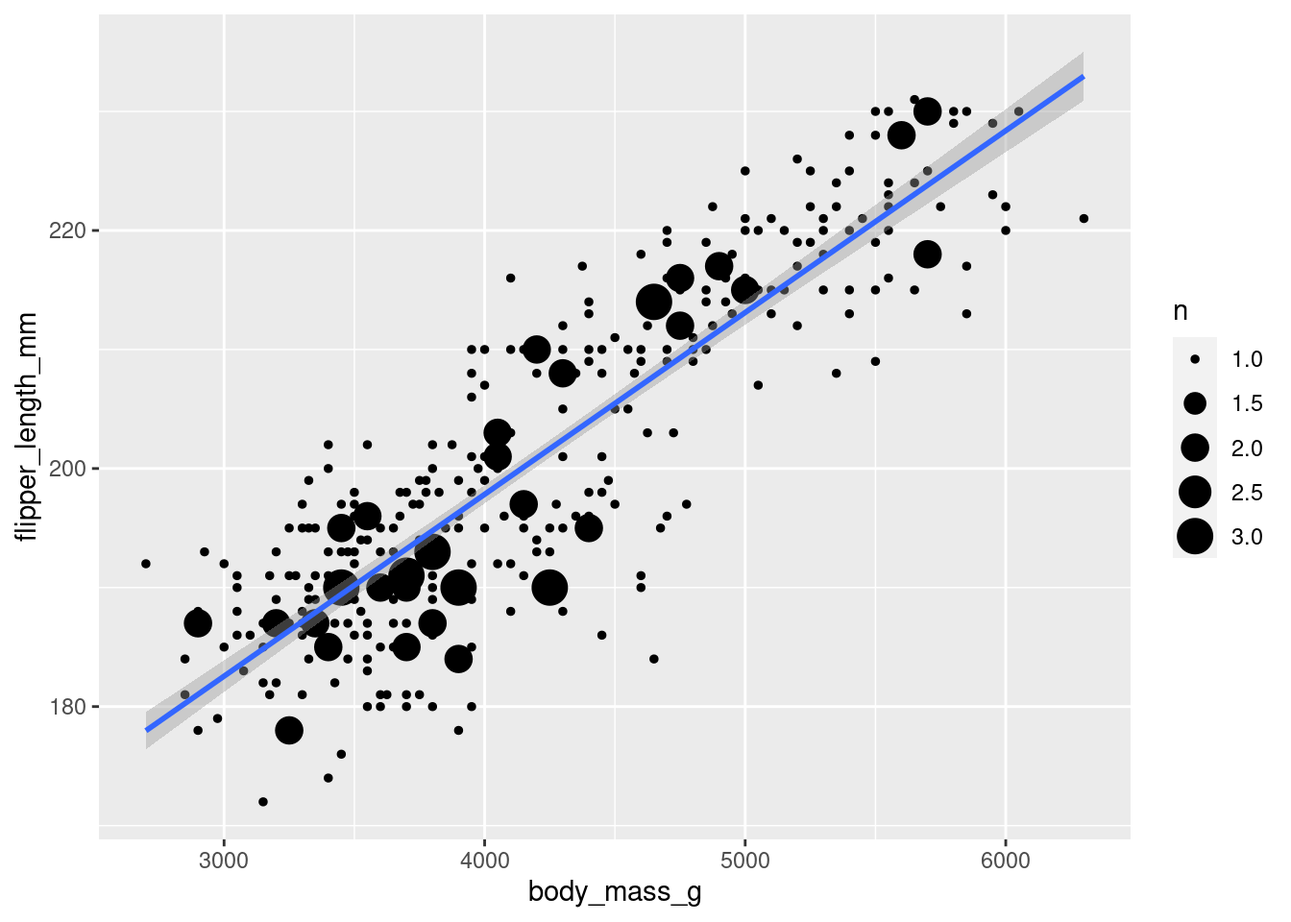
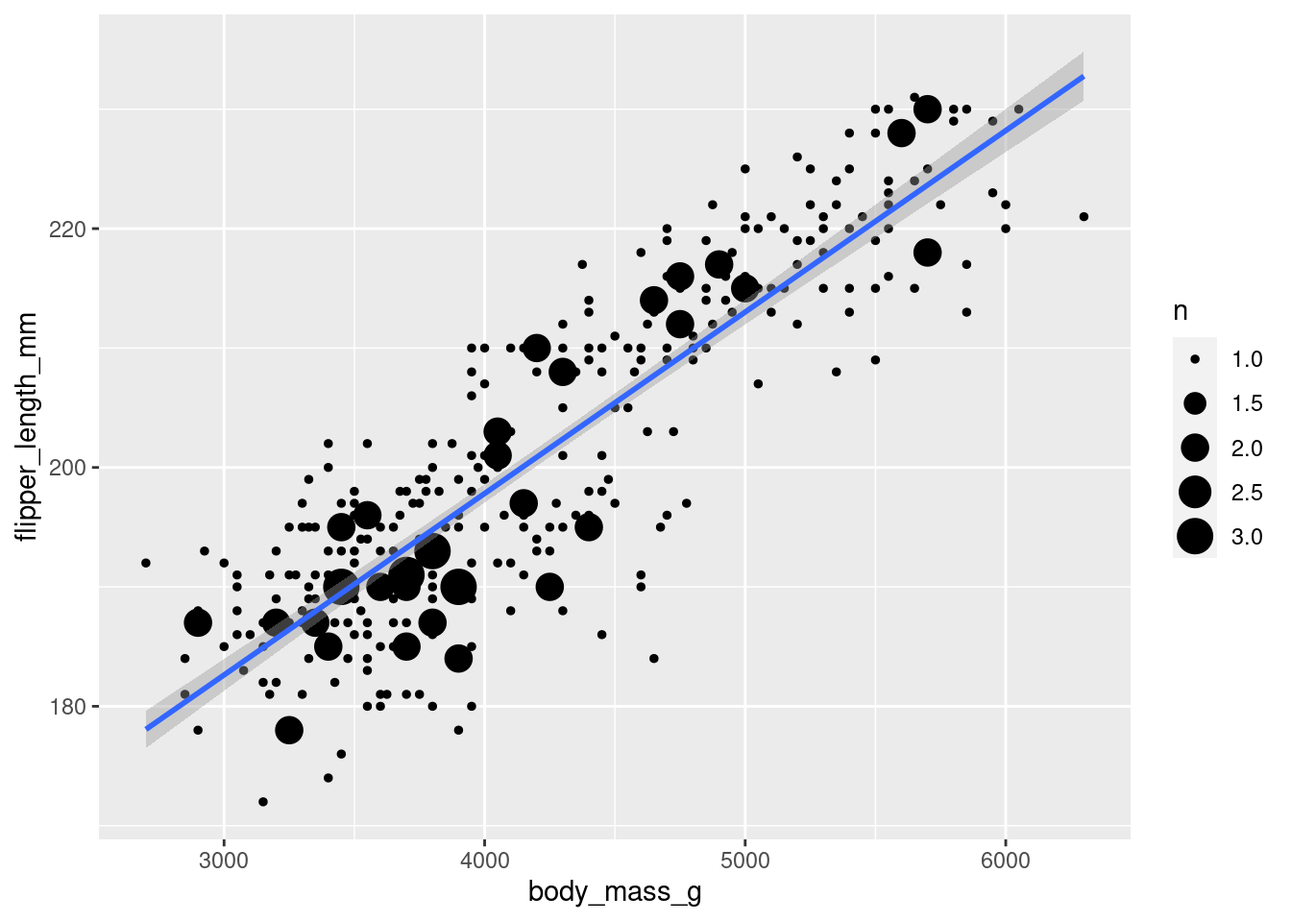
updated methods

diff --git a/docs/index.html b/docs/index.html
@@ -2,7 +2,7 @@
 <html xmlns="http://www.w3.org/1999/xhtml" lang="en" xml:lang="en"><head>
 
 <meta charset="utf-8">
-<meta name="generator" content="quarto-1.2.475">
+<meta name="generator" content="quarto-1.2.269">
 
 <meta name="viewport" content="width=device-width, initial-scale=1.0, user-scalable=yes">
 
@@ -207,42 +207,153 @@ div.csl-indent {
 <p>Missing data is a critical issue that can lead to global crises and cybersecurity threats. Researchers have struggled with univariate imputation and deletion, but modern methods are being tested to find the best missing data handling solutions. Multivariate chained equation imputation is a method that prevents missing data during data collection. Bayesian posterior distribution simulation has been improved by researchers. Missing data in data analysis reduces model accuracy, and unknown data detection methods like MCAR and MAR are necessary. Single imputation and deletion are the simplest assumptions, while maximum likelihood and multiple imputation are optimal for missing data. Reliable statistical results require identifying missingness processes to ensure accurate data analysis.</p>
 <p>Missing completely at random (MCAR) is best described as data missing entirely at random and unrelated to observed or unobserved factors. Missing at random (MAR) describes a missing variable due to other observed variables within the data set. Missing depending on unobserved predictors (MNAR) describes the missing variable due to unobserved factors within our data set. Missingness that depends on the missing value describes missing data due to the information the participant does not want to make available.</p>
 <p>When data is missing in a dataset, it can be handled in two ways. First would be to simply delete the missing data from the dataset. This is generally the best method if the data is missing at random and makes up for a small amount of the larger dataset. If the data is not missing at random, or if deleting it would remove a substantial amount of the data, there is a statistical technique to handle missing data known as “imputation.” The most common type of imputation is single and multiple. “In single imputation, imputed values are considered as actual values. Single imputation ignores the fact that the actual value cannot be predicted for sure by any imputation method. Single imputation based methods do not consider the uncertainty of the imputed values. Instead, they recognize the imputed values as actual values in subsequent analysis.” <span class="citation" data-cites="khan2020">(<a href="#ref-khan2020" role="doc-biblioref">Khan and Hoque 2020</a>)</span> Single imputation replaces missing values by using multiple methods, such as replacing the missing value by copying the previous participants’ value, copying over the worst value in the data set, or calculating the mean for the variable. With a single imputation, there is no distinction between observed and imputed values, which could lead to bias, influenced by outliers, can spread errors, no way to detect the imputed values, and this methodology cannot be used for complex data. Despite these drawbacks, simple imputation is one of the most popular types of imputation due to its simplicity and status as the default imputation method in many statistical packages. <span class="citation" data-cites="ATM8839">(<a href="#ref-ATM8839" role="doc-biblioref">Zhang 2016</a>)</span></p>
-<p>“Multivariate Imputation by Chained Equation (MICE) predicts missing data using the existing data of other variables. Then it replaces missing values using the predicted values and creates a dataset called imputed dataset. By iteration, it creates multiple imputed datasets. Each dataset is then analyzed using standard statistical analysis techniques, and multiple analysis results are provided.” <span class="citation" data-cites="khan2020">(<a href="#ref-khan2020" role="doc-biblioref">Khan and Hoque 2020</a>)</span> The downside of this methodology is that it can be complex to implement, assumes that the data is missing at random, has a risk of overfitting, and requires many resources; however, it has the ability to impute more accurate data than single imputation based on underlying patterns in the data</p>
-<p>The code block below demonstrate the penguins dataset that we will be using and shows the correlation using ggplot2<span class="citation" data-cites="ggplot2">(<a href="#ref-ggplot2" role="doc-biblioref">Wickham 2016</a>)</span> between body_mass_g and flipper_legth_mm that we will be using to construct a model before and after imputation of missing data.</p>
+<p>“Multivariate Imputation by Chained Equation (MICE) predicts missing data using the existing data of other variables. Then it replaces missing values using the predicted values and creates a dataset called imputed dataset. By iteration, it creates multiple imputed datasets. Each dataset is then analyzed using standard statistical analysis techniques, and multiple analysis results are provided.” <span class="citation" data-cites="khan2020">(<a href="#ref-khan2020" role="doc-biblioref">Khan and Hoque 2020</a>)</span> The downside of this methodology is that it can be complex to implement, assumes that the data is missing at random, has a risk of overfitting, and requires many resources; however, it has the ability to impute more accurate data than single imputation based on underlying patterns in the data.</p>
+<p>To demonstrate the benefits of imputation, we will create missingness in a predictor variable and create a model by excluding the missing data. Then we will perform imputation on the dataset and recreate the model to see if there is a difference in performance. Before we perform imputations on the penguins <span class="citation" data-cites="palmerpenguins">(<a href="#ref-palmerpenguins" role="doc-biblioref">Horst, Hill, and Gorman 2020</a>)</span> dataset, first the data must be cleaned to omit all incomplete records so we can have the actual values to compare our imputations against. The code block below demonstrates the penguins dataset that we will be using, cleaning the incomplete records, and displays the correlation using the ggplot2 [<span class="citation" data-cites="ggplot2">Wickham (<a href="#ref-ggplot2" role="doc-biblioref">2016</a>)</span>] package between body_mass_g and flipper_legth_mm that we will be using to construct a model before and after imputation of missing data.</p>
 <div class="cell">
 <div class="sourceCode cell-code" id="cb1"><pre class="sourceCode r code-with-copy"><code class="sourceCode r"><span id="cb1-1"><a href="#cb1-1" aria-hidden="true" tabindex="-1"></a><span class="fu">library</span>(readr)</span>
 <span id="cb1-2"><a href="#cb1-2" aria-hidden="true" tabindex="-1"></a><span class="fu">library</span>(missMethods)</span>
 <span id="cb1-3"><a href="#cb1-3" aria-hidden="true" tabindex="-1"></a><span class="fu">library</span>(simputation)</span>
 <span id="cb1-4"><a href="#cb1-4" aria-hidden="true" tabindex="-1"></a><span class="fu">library</span>(ggplot2)</span>
-<span id="cb1-5"><a href="#cb1-5" aria-hidden="true" tabindex="-1"></a><span class="fu">set.seed</span>(<span class="dv">1</span>) </span>
-<span id="cb1-6"><a href="#cb1-6" aria-hidden="true" tabindex="-1"></a></span>
-<span id="cb1-7"><a href="#cb1-7" aria-hidden="true" tabindex="-1"></a>penguins <span class="ot">&lt;-</span> readr<span class="sc">::</span><span class="fu">read_csv</span>(<span class="st">'penguins.csv'</span>)</span>
-<span id="cb1-8"><a href="#cb1-8" aria-hidden="true" tabindex="-1"></a></span>
-<span id="cb1-9"><a href="#cb1-9" aria-hidden="true" tabindex="-1"></a><span class="fu">ggplot</span>(penguins, <span class="fu">aes</span>(body_mass_g, flipper_length_mm)) <span class="sc">+</span> </span>
-<span id="cb1-10"><a href="#cb1-10" aria-hidden="true" tabindex="-1"></a>  <span class="fu">geom_count</span>() <span class="sc">+</span> </span>
-<span id="cb1-11"><a href="#cb1-11" aria-hidden="true" tabindex="-1"></a>  <span class="fu">geom_smooth</span>(<span class="at">method=</span><span class="st">'lm'</span>)</span></code><button title="Copy to Clipboard" class="code-copy-button"><i class="bi"></i></button></pre></div>
+<span id="cb1-5"><a href="#cb1-5" aria-hidden="true" tabindex="-1"></a></span>
+<span id="cb1-6"><a href="#cb1-6" aria-hidden="true" tabindex="-1"></a><span class="fu">set.seed</span>(<span class="dv">1</span>) </span>
+<span id="cb1-7"><a href="#cb1-7" aria-hidden="true" tabindex="-1"></a></span>
+<span id="cb1-8"><a href="#cb1-8" aria-hidden="true" tabindex="-1"></a>penguins <span class="ot">&lt;-</span> readr<span class="sc">::</span><span class="fu">read_csv</span>(<span class="st">'penguins.csv'</span>)</span>
+<span id="cb1-9"><a href="#cb1-9" aria-hidden="true" tabindex="-1"></a></span>
+<span id="cb1-10"><a href="#cb1-10" aria-hidden="true" tabindex="-1"></a></span>
+<span id="cb1-11"><a href="#cb1-11" aria-hidden="true" tabindex="-1"></a>penguin_rows_with_na <span class="ot">&lt;-</span> penguins[<span class="sc">!</span><span class="fu">complete.cases</span>(penguins), ]</span>
+<span id="cb1-12"><a href="#cb1-12" aria-hidden="true" tabindex="-1"></a><span class="fu">print</span>(penguin_rows_with_na)</span></code><button title="Copy to Clipboard" class="code-copy-button"><i class="bi"></i></button></pre></div>
+<div class="cell-output cell-output-stdout">
+<pre><code># A tibble: 11 × 8
+   species island    bill_length_mm bill_depth_mm flipper_length_mm body_mass_g
+   &lt;chr&gt;   &lt;chr&gt;              &lt;dbl&gt;         &lt;dbl&gt;             &lt;dbl&gt;       &lt;dbl&gt;
+ 1 Adelie  Torgersen           NA            NA                  NA          NA
+ 2 Adelie  Torgersen           34.1          18.1               193        3475
+ 3 Adelie  Torgersen           42            20.2               190        4250
+ 4 Adelie  Torgersen           37.8          17.1               186        3300
+ 5 Adelie  Torgersen           37.8          17.3               180        3700
+ 6 Adelie  Dream               37.5          18.9               179        2975
+ 7 Gentoo  Biscoe              44.5          14.3               216        4100
+ 8 Gentoo  Biscoe              46.2          14.4               214        4650
+ 9 Gentoo  Biscoe              47.3          13.8               216        4725
+10 Gentoo  Biscoe              44.5          15.7               217        4875
+11 Gentoo  Biscoe              NA            NA                  NA          NA
+# ℹ 2 more variables: sex &lt;chr&gt;, year &lt;dbl&gt;</code></pre>
+</div>
+<div class="sourceCode cell-code" id="cb3"><pre class="sourceCode r code-with-copy"><code class="sourceCode r"><span id="cb3-1"><a href="#cb3-1" aria-hidden="true" tabindex="-1"></a>penguins_filtered <span class="ot">&lt;-</span> <span class="fu">na.omit</span>(penguins)</span>
+<span id="cb3-2"><a href="#cb3-2" aria-hidden="true" tabindex="-1"></a></span>
+<span id="cb3-3"><a href="#cb3-3" aria-hidden="true" tabindex="-1"></a></span>
+<span id="cb3-4"><a href="#cb3-4" aria-hidden="true" tabindex="-1"></a><span class="fu">ggplot</span>(penguins_filtered, <span class="fu">aes</span>(body_mass_g, flipper_length_mm)) <span class="sc">+</span> </span>
+<span id="cb3-5"><a href="#cb3-5" aria-hidden="true" tabindex="-1"></a>  <span class="fu">geom_count</span>() <span class="sc">+</span> </span>
+<span id="cb3-6"><a href="#cb3-6" aria-hidden="true" tabindex="-1"></a>  <span class="fu">geom_smooth</span>(<span class="at">method=</span><span class="st">'lm'</span>)</span></code><button title="Copy to Clipboard" class="code-copy-button"><i class="bi"></i></button></pre></div>
 <div class="cell-output-display">
 <p><img src="index_files/figure-html/unnamed-chunk-1-1.png" class="img-fluid" width="672"></p>
 </div>
 </div>
 <p>In the code block below, we will create 50% missing at random data in the column flipper_length_mm using the missMethods <span class="citation" data-cites="missMethods">(<a href="#ref-missMethods" role="doc-biblioref">Rockel 2022</a>)</span> package. Then we will create a linear regression to display the r-squared that would be achieved without performing any imputation on the data set.</p>
 <div class="cell">
-<div class="sourceCode cell-code" id="cb2"><pre class="sourceCode r code-with-copy"><code class="sourceCode r"><span id="cb2-1"><a href="#cb2-1" aria-hidden="true" tabindex="-1"></a>penguins_missing <span class="ot">&lt;-</span> <span class="fu">delete_MCAR</span>(penguins,<span class="fl">0.5</span>,<span class="st">"flipper_length_mm"</span>)</span>
-<span id="cb2-2"><a href="#cb2-2" aria-hidden="true" tabindex="-1"></a></span>
-<span id="cb2-3"><a href="#cb2-3" aria-hidden="true" tabindex="-1"></a>regg <span class="ot">=</span> <span class="fu">lm</span>(body_mass_g<span class="sc">~</span> flipper_length_mm, <span class="at">data =</span> penguins_missing, <span class="at">na.action=</span>na.omit) </span>
-<span id="cb2-4"><a href="#cb2-4" aria-hidden="true" tabindex="-1"></a><span class="fu">print</span>(<span class="fu">paste</span>(<span class="fu">summary</span>(regg)<span class="sc">$</span>adj.r.squared, <span class="st">"is the R-Squared for the linear model where missing values are excluded from the dataset."</span>))</span></code><button title="Copy to Clipboard" class="code-copy-button"><i class="bi"></i></button></pre></div>
+<div class="sourceCode cell-code" id="cb4"><pre class="sourceCode r code-with-copy"><code class="sourceCode r"><span id="cb4-1"><a href="#cb4-1" aria-hidden="true" tabindex="-1"></a>penguins_missing <span class="ot">&lt;-</span> <span class="fu">delete_MCAR</span>(penguins,<span class="fl">0.5</span>,<span class="st">"flipper_length_mm"</span>)</span>
+<span id="cb4-2"><a href="#cb4-2" aria-hidden="true" tabindex="-1"></a></span>
+<span id="cb4-3"><a href="#cb4-3" aria-hidden="true" tabindex="-1"></a>regg <span class="ot">=</span> <span class="fu">lm</span>(body_mass_g<span class="sc">~</span> flipper_length_mm, <span class="at">data =</span> penguins_missing, <span class="at">na.action=</span>na.omit) </span>
+<span id="cb4-4"><a href="#cb4-4" aria-hidden="true" tabindex="-1"></a><span class="fu">print</span>(<span class="fu">paste</span>(<span class="fu">summary</span>(regg)<span class="sc">$</span>adj.r.squared, <span class="st">"is the R-Squared for the linear model where missing values are excluded from the dataset."</span>))</span></code><button title="Copy to Clipboard" class="code-copy-button"><i class="bi"></i></button></pre></div>
 <div class="cell-output cell-output-stdout">
 <pre><code>[1] "0.756874976743334 is the R-Squared for the linear model where missing values are excluded from the dataset."</code></pre>
 </div>
 </div>
-<p>Now we will proceed to impute linear model predicted values using the simputation <span class="citation" data-cites="simputation">(<a href="#ref-simputation" role="doc-biblioref">Loo 2022</a>)</span> package into the missing data set for bill_length_mm and construct the same model to achieve an increase in r-squared.</p>
+<p>Although this R-Squared is good, it omits half of the data since 50% of the values for flipper_length_mm are missing. In the following code blocks, we will explore imputation of the the missing data.</p>
 <div class="cell">
-<div class="sourceCode cell-code" id="cb4"><pre class="sourceCode r code-with-copy"><code class="sourceCode r"><span id="cb4-1"><a href="#cb4-1" aria-hidden="true" tabindex="-1"></a>penguins_imputed <span class="ot">&lt;-</span> <span class="fu">impute_lm</span>(penguins_missing, flipper_length_mm <span class="sc">~</span> species <span class="sc">+</span> bill_length_mm <span class="sc">+</span> bill_depth_mm)</span>
-<span id="cb4-2"><a href="#cb4-2" aria-hidden="true" tabindex="-1"></a></span>
-<span id="cb4-3"><a href="#cb4-3" aria-hidden="true" tabindex="-1"></a>regg <span class="ot">=</span> <span class="fu">lm</span>(body_mass_g<span class="sc">~</span> flipper_length_mm, <span class="at">data =</span> penguins_imputed)</span>
-<span id="cb4-4"><a href="#cb4-4" aria-hidden="true" tabindex="-1"></a><span class="fu">print</span>(<span class="fu">paste</span>(<span class="fu">summary</span>(regg)<span class="sc">$</span>adj.r.squared, <span class="st">"is the R-Squared for the linear model where imputation of missing values was performed before modeling."</span>))</span></code><button title="Copy to Clipboard" class="code-copy-button"><i class="bi"></i></button></pre></div>
+<div class="sourceCode cell-code" id="cb6"><pre class="sourceCode r code-with-copy"><code class="sourceCode r"><span id="cb6-1"><a href="#cb6-1" aria-hidden="true" tabindex="-1"></a><span class="co"># Make a copy of the dataset and calculate the mean of the specific column</span></span>
+<span id="cb6-2"><a href="#cb6-2" aria-hidden="true" tabindex="-1"></a>penguins_Mean_imputated <span class="ot">&lt;-</span> penguins_missing</span>
+<span id="cb6-3"><a href="#cb6-3" aria-hidden="true" tabindex="-1"></a></span>
+<span id="cb6-4"><a href="#cb6-4" aria-hidden="true" tabindex="-1"></a></span>
+<span id="cb6-5"><a href="#cb6-5" aria-hidden="true" tabindex="-1"></a><span class="co"># If we only replaced the missing values for flipper_length_mm</span></span>
+<span id="cb6-6"><a href="#cb6-6" aria-hidden="true" tabindex="-1"></a>flipper_length_mm_mean_value <span class="ot">&lt;-</span> <span class="fu">mean</span>(penguins<span class="sc">$</span>flipper_length_mm, <span class="at">na.rm =</span> <span class="cn">TRUE</span>)</span>
+<span id="cb6-7"><a href="#cb6-7" aria-hidden="true" tabindex="-1"></a>penguins_Mean_imputated<span class="sc">$</span>flipper_length_mm[<span class="fu">is.na</span>(penguins_Mean_imputated<span class="sc">$</span>flipper_length_mm)] <span class="ot">&lt;-</span> flipper_length_mm_mean_value</span>
+<span id="cb6-8"><a href="#cb6-8" aria-hidden="true" tabindex="-1"></a>penguins_Mean_imputated[<span class="sc">!</span><span class="fu">complete.cases</span>(penguins), ]</span></code><button title="Copy to Clipboard" class="code-copy-button"><i class="bi"></i></button></pre></div>
 <div class="cell-output cell-output-stdout">
-<pre><code>[1] "0.773206900379413 is the R-Squared for the linear model where imputation of missing values was performed before modeling."</code></pre>
+<pre><code># A tibble: 11 × 8
+   species island    bill_length_mm bill_depth_mm flipper_length_mm body_mass_g
+   &lt;chr&gt;   &lt;chr&gt;              &lt;dbl&gt;         &lt;dbl&gt;             &lt;dbl&gt;       &lt;dbl&gt;
+ 1 Adelie  Torgersen           NA            NA                201.          NA
+ 2 Adelie  Torgersen           34.1          18.1              201.        3475
+ 3 Adelie  Torgersen           42            20.2              190         4250
+ 4 Adelie  Torgersen           37.8          17.1              186         3300
+ 5 Adelie  Torgersen           37.8          17.3              180         3700
+ 6 Adelie  Dream               37.5          18.9              201.        2975
+ 7 Gentoo  Biscoe              44.5          14.3              216         4100
+ 8 Gentoo  Biscoe              46.2          14.4              201.        4650
+ 9 Gentoo  Biscoe              47.3          13.8              201.        4725
+10 Gentoo  Biscoe              44.5          15.7              201.        4875
+11 Gentoo  Biscoe              NA            NA                201.          NA
+# ℹ 2 more variables: sex &lt;chr&gt;, year &lt;dbl&gt;</code></pre>
+</div>
+<div class="sourceCode cell-code" id="cb8"><pre class="sourceCode r code-with-copy"><code class="sourceCode r"><span id="cb8-1"><a href="#cb8-1" aria-hidden="true" tabindex="-1"></a>regg <span class="ot">=</span> <span class="fu">lm</span>(body_mass_g<span class="sc">~</span> flipper_length_mm, <span class="at">data =</span> penguins_Mean_imputated, <span class="at">na.action=</span>na.omit)</span>
+<span id="cb8-2"><a href="#cb8-2" aria-hidden="true" tabindex="-1"></a><span class="fu">print</span>(<span class="fu">paste</span>(<span class="fu">summary</span>(regg)<span class="sc">$</span>adj.r.squared, <span class="st">"is the R-Squared for the linear model where missing values are imputed as the mean."</span>))</span></code><button title="Copy to Clipboard" class="code-copy-button"><i class="bi"></i></button></pre></div>
+<div class="cell-output cell-output-stdout">
+<pre><code>[1] "0.401550181674138 is the R-Squared for the linear model where missing values are imputed as the mean."</code></pre>
+</div>
+</div>
+<p>As we can see the R-Squared dramatically decreased since we performed a basic version of imputation that just inserts one number for all missing values. Now we will proceed to impute linear model predicted values using the simputation <span class="citation" data-cites="simputation">(<a href="#ref-simputation" role="doc-biblioref">Loo 2022</a>)</span> package into the missing data set for bill_length_mm and construct the same model to achieve an increase in r-squared.</p>
+<div class="cell">
+<div class="sourceCode cell-code" id="cb10"><pre class="sourceCode r code-with-copy"><code class="sourceCode r"><span id="cb10-1"><a href="#cb10-1" aria-hidden="true" tabindex="-1"></a>penguins_imputed <span class="ot">&lt;-</span> <span class="fu">impute_lm</span>(penguins_missing, flipper_length_mm <span class="sc">~</span> species <span class="sc">+</span> bill_length_mm <span class="sc">+</span> bill_depth_mm)</span>
+<span id="cb10-2"><a href="#cb10-2" aria-hidden="true" tabindex="-1"></a></span>
+<span id="cb10-3"><a href="#cb10-3" aria-hidden="true" tabindex="-1"></a>regg <span class="ot">=</span> <span class="fu">lm</span>(body_mass_g<span class="sc">~</span> flipper_length_mm, <span class="at">data =</span> penguins_imputed)</span>
+<span id="cb10-4"><a href="#cb10-4" aria-hidden="true" tabindex="-1"></a><span class="fu">print</span>(<span class="fu">paste</span>(<span class="fu">summary</span>(regg)<span class="sc">$</span>adj.r.squared, <span class="st">"is the R-Squared for the linear model where imputation of missing values was performed with another linear model before modeling."</span>))</span></code><button title="Copy to Clipboard" class="code-copy-button"><i class="bi"></i></button></pre></div>
+<div class="cell-output cell-output-stdout">
+<pre><code>[1] "0.773206900379413 is the R-Squared for the linear model where imputation of missing values was performed with another linear model before modeling."</code></pre>
+</div>
+</div>
+<p>As shown in the R-Squared output for each model. We can see a small improvement in the accuracy of this model by performing imputation. This accuracy was possible since there wasnt an issue with missing values in species, bill_length_mm, and bill_depth_mm which were used to impute flipper_length_mm. But what happens if these variables contained large amounts of missing values that must be replaced as well?</p>
+<div class="cell">
+<div class="sourceCode cell-code" id="cb12"><pre class="sourceCode r code-with-copy"><code class="sourceCode r"><span id="cb12-1"><a href="#cb12-1" aria-hidden="true" tabindex="-1"></a>penguins_missing <span class="ot">&lt;-</span> <span class="fu">delete_MCAR</span>(penguins,<span class="fl">0.5</span>,<span class="fu">c</span>(<span class="st">"flipper_length_mm"</span>,<span class="st">"bill_length_mm"</span>,<span class="st">"bill_depth_mm"</span>,<span class="st">"body_mass_g"</span>,<span class="st">"species"</span>,<span class="st">"sex"</span>))</span>
+<span id="cb12-2"><a href="#cb12-2" aria-hidden="true" tabindex="-1"></a><span class="fu">tryCatch</span>(</span>
+<span id="cb12-3"><a href="#cb12-3" aria-hidden="true" tabindex="-1"></a>  {</span>
+<span id="cb12-4"><a href="#cb12-4" aria-hidden="true" tabindex="-1"></a>  penguins_imputed_missing <span class="ot">&lt;-</span> <span class="fu">impute_lm</span>(penguins_missing, flipper_length_mm <span class="sc">~</span> species <span class="sc">+</span> bill_length_mm <span class="sc">+</span> bill_depth_mm)</span>
+<span id="cb12-5"><a href="#cb12-5" aria-hidden="true" tabindex="-1"></a></span>
+<span id="cb12-6"><a href="#cb12-6" aria-hidden="true" tabindex="-1"></a>  penguins_imputed_missing[<span class="sc">!</span><span class="fu">complete.cases</span>(penguins_imputed_missing), ]</span>
+<span id="cb12-7"><a href="#cb12-7" aria-hidden="true" tabindex="-1"></a></span>
+<span id="cb12-8"><a href="#cb12-8" aria-hidden="true" tabindex="-1"></a>  regg <span class="ot">=</span> <span class="fu">lm</span>(body_mass_g<span class="sc">~</span> flipper_length_mm, <span class="at">data =</span> penguins_imputed_missing)</span>
+<span id="cb12-9"><a href="#cb12-9" aria-hidden="true" tabindex="-1"></a>  <span class="fu">print</span>(<span class="fu">paste</span>(<span class="fu">summary</span>(regg)<span class="sc">$</span>adj.r.squared, <span class="st">"is the R-Squared for the linear model where imputation of missing values was performed with another linear model before modeling."</span>))</span>
+<span id="cb12-10"><a href="#cb12-10" aria-hidden="true" tabindex="-1"></a>  },</span>
+<span id="cb12-11"><a href="#cb12-11" aria-hidden="true" tabindex="-1"></a>  <span class="at">error =</span> <span class="cf">function</span>(e) </span>
+<span id="cb12-12"><a href="#cb12-12" aria-hidden="true" tabindex="-1"></a>  {</span>
+<span id="cb12-13"><a href="#cb12-13" aria-hidden="true" tabindex="-1"></a>    <span class="fu">print</span>(<span class="st">"This caused an error!"</span>) <span class="co"># or whatever error handling code you want</span></span>
+<span id="cb12-14"><a href="#cb12-14" aria-hidden="true" tabindex="-1"></a>  }</span>
+<span id="cb12-15"><a href="#cb12-15" aria-hidden="true" tabindex="-1"></a>)</span></code><button title="Copy to Clipboard" class="code-copy-button"><i class="bi"></i></button></pre></div>
+<div class="cell-output cell-output-stdout">
+<pre><code>[1] "This caused an error!"</code></pre>
+</div>
+</div>
+<p>It is important to note, that although it appears that we are imputing missing values in the code, the linear model fails to impute when there are missing values in the predicting variables. To avoid this error, below we will impute most of the missing data with mean or mode and attempt to impute flipper_length_mm with a linear model. This method will not be accurate due to the same underlying issue that we saw with imputing mean before.</p>
+<div class="cell">
+<div class="sourceCode cell-code" id="cb14"><pre class="sourceCode r code-with-copy"><code class="sourceCode r"><span id="cb14-1"><a href="#cb14-1" aria-hidden="true" tabindex="-1"></a>penguins_missing <span class="ot">&lt;-</span> <span class="fu">delete_MCAR</span>(penguins,<span class="fl">0.5</span>,<span class="fu">c</span>(<span class="st">"flipper_length_mm"</span>,<span class="st">"bill_length_mm"</span>,<span class="st">"bill_depth_mm"</span>,<span class="st">"body_mass_g"</span>,<span class="st">"species"</span>,<span class="st">"sex"</span>))</span>
+<span id="cb14-2"><a href="#cb14-2" aria-hidden="true" tabindex="-1"></a>bill_length_mm_mean_value <span class="ot">&lt;-</span> <span class="fu">mean</span>(penguins<span class="sc">$</span>bill_length_mm, <span class="at">na.rm =</span> <span class="cn">TRUE</span>)</span>
+<span id="cb14-3"><a href="#cb14-3" aria-hidden="true" tabindex="-1"></a>bill_depth_mm_mean_value <span class="ot">&lt;-</span> <span class="fu">mean</span>(penguins<span class="sc">$</span>bill_depth_mm, <span class="at">na.rm =</span> <span class="cn">TRUE</span>)</span>
+<span id="cb14-4"><a href="#cb14-4" aria-hidden="true" tabindex="-1"></a>flipper_length_mm_mean_value <span class="ot">&lt;-</span> <span class="fu">mean</span>(penguins<span class="sc">$</span>flipper_length_mm, <span class="at">na.rm =</span> <span class="cn">TRUE</span>)</span>
+<span id="cb14-5"><a href="#cb14-5" aria-hidden="true" tabindex="-1"></a>body_mass_g_mean_value <span class="ot">&lt;-</span> <span class="fu">mean</span>(penguins<span class="sc">$</span>body_mass_g, <span class="at">na.rm =</span> <span class="cn">TRUE</span>)</span>
+<span id="cb14-6"><a href="#cb14-6" aria-hidden="true" tabindex="-1"></a>species_mode_value <span class="ot">&lt;-</span> <span class="fu">mode</span>(penguins<span class="sc">$</span>species)</span>
+<span id="cb14-7"><a href="#cb14-7" aria-hidden="true" tabindex="-1"></a>sex_mode_value <span class="ot">&lt;-</span> <span class="fu">mode</span>(penguins<span class="sc">$</span>sex)</span>
+<span id="cb14-8"><a href="#cb14-8" aria-hidden="true" tabindex="-1"></a></span>
+<span id="cb14-9"><a href="#cb14-9" aria-hidden="true" tabindex="-1"></a><span class="co"># Replace NAs in the specific column with the mean</span></span>
+<span id="cb14-10"><a href="#cb14-10" aria-hidden="true" tabindex="-1"></a>penguins_Mean_imputated<span class="sc">$</span>bill_length_mm[<span class="fu">is.na</span>(penguins_Mean_imputated<span class="sc">$</span>bill_length_mm)] <span class="ot">&lt;-</span> bill_length_mm_mean_value</span>
+<span id="cb14-11"><a href="#cb14-11" aria-hidden="true" tabindex="-1"></a>penguins_Mean_imputated<span class="sc">$</span>bill_depth_mm[<span class="fu">is.na</span>(penguins_Mean_imputated<span class="sc">$</span>bill_depth_mm)] <span class="ot">&lt;-</span> bill_depth_mm_mean_value</span>
+<span id="cb14-12"><a href="#cb14-12" aria-hidden="true" tabindex="-1"></a>penguins_Mean_imputated<span class="sc">$</span>flipper_length_mm[<span class="fu">is.na</span>(penguins_Mean_imputated<span class="sc">$</span>flipper_length_mm)] <span class="ot">&lt;-</span> flipper_length_mm_mean_value</span>
+<span id="cb14-13"><a href="#cb14-13" aria-hidden="true" tabindex="-1"></a>penguins_Mean_imputated<span class="sc">$</span>body_mass_g[<span class="fu">is.na</span>(penguins_Mean_imputated<span class="sc">$</span>body_mass_g)] <span class="ot">&lt;-</span> body_mass_g_mean_value</span>
+<span id="cb14-14"><a href="#cb14-14" aria-hidden="true" tabindex="-1"></a>penguins_Mean_imputated<span class="sc">$</span>species[<span class="fu">is.na</span>(penguins_Mean_imputated<span class="sc">$</span>species)] <span class="ot">&lt;-</span> species_mode_value</span>
+<span id="cb14-15"><a href="#cb14-15" aria-hidden="true" tabindex="-1"></a>penguins_Mean_imputated<span class="sc">$</span>sex[<span class="fu">is.na</span>(penguins_Mean_imputated<span class="sc">$</span>sex)] <span class="ot">&lt;-</span> sex_mode_value</span>
+<span id="cb14-16"><a href="#cb14-16" aria-hidden="true" tabindex="-1"></a></span>
+<span id="cb14-17"><a href="#cb14-17" aria-hidden="true" tabindex="-1"></a>penguins_Mean_imputated[<span class="sc">!</span><span class="fu">complete.cases</span>(penguins_Mean_imputated), ]</span></code><button title="Copy to Clipboard" class="code-copy-button"><i class="bi"></i></button></pre></div>
+<div class="cell-output cell-output-stdout">
+<pre><code># A tibble: 0 × 8
+# ℹ 8 variables: species &lt;chr&gt;, island &lt;chr&gt;, bill_length_mm &lt;dbl&gt;,
+#   bill_depth_mm &lt;dbl&gt;, flipper_length_mm &lt;dbl&gt;, body_mass_g &lt;dbl&gt;, sex &lt;chr&gt;,
+#   year &lt;dbl&gt;</code></pre>
+</div>
+<div class="sourceCode cell-code" id="cb16"><pre class="sourceCode r code-with-copy"><code class="sourceCode r"><span id="cb16-1"><a href="#cb16-1" aria-hidden="true" tabindex="-1"></a>penguins_imputed <span class="ot">&lt;-</span> <span class="fu">impute_lm</span>(penguins_Mean_imputated, flipper_length_mm <span class="sc">~</span> species <span class="sc">+</span> bill_length_mm <span class="sc">+</span> bill_depth_mm)</span>
+<span id="cb16-2"><a href="#cb16-2" aria-hidden="true" tabindex="-1"></a></span>
+<span id="cb16-3"><a href="#cb16-3" aria-hidden="true" tabindex="-1"></a>regg <span class="ot">=</span> <span class="fu">lm</span>(body_mass_g<span class="sc">~</span> flipper_length_mm, <span class="at">data =</span> penguins_imputed)</span>
+<span id="cb16-4"><a href="#cb16-4" aria-hidden="true" tabindex="-1"></a><span class="fu">print</span>(<span class="fu">paste</span>(<span class="fu">summary</span>(regg)<span class="sc">$</span>adj.r.squared, <span class="st">"is the R-Squared for the linear model where imputation of missing values was performed with another linear model before modeling."</span>))</span></code><button title="Copy to Clipboard" class="code-copy-button"><i class="bi"></i></button></pre></div>
+<div class="cell-output cell-output-stdout">
+<pre><code>[1] "0.401560117419619 is the R-Squared for the linear model where imputation of missing values was performed with another linear model before modeling."</code></pre>
 </div>
 </div>
 
@@ -250,6 +361,9 @@ div.csl-indent {
 
 
 <div id="quarto-appendix" class="default"><section class="quarto-appendix-contents" role="doc-bibliography"><h2 class="anchored quarto-appendix-heading">References</h2><div id="refs" class="references csl-bib-body hanging-indent" role="doc-bibliography">
+<div id="ref-palmerpenguins" class="csl-entry" role="doc-biblioentry">
+Horst, Allison Marie, Alison Presmanes Hill, and Kristen B Gorman. 2020. <span>“Palmerpenguins: Palmer Archipelago (Antarctica) Penguin Data.”</span> <a href="https://doi.org/10.5281/zenodo.3960218">https://doi.org/10.5281/zenodo.3960218</a>.
+</div>
 <div id="ref-khan2020" class="csl-entry" role="doc-biblioentry">
 Khan, Shahidul Islam, and Abu Sayed Md Latiful Hoque. 2020. <span>“SICE: An Improved Missing Data Imputation Technique.”</span> <em>Journal of Big Data</em> 7 (1). <a href="https://doi.org/10.1186/s40537-020-00313-w">https://doi.org/10.1186/s40537-020-00313-w</a>.
 </div>
